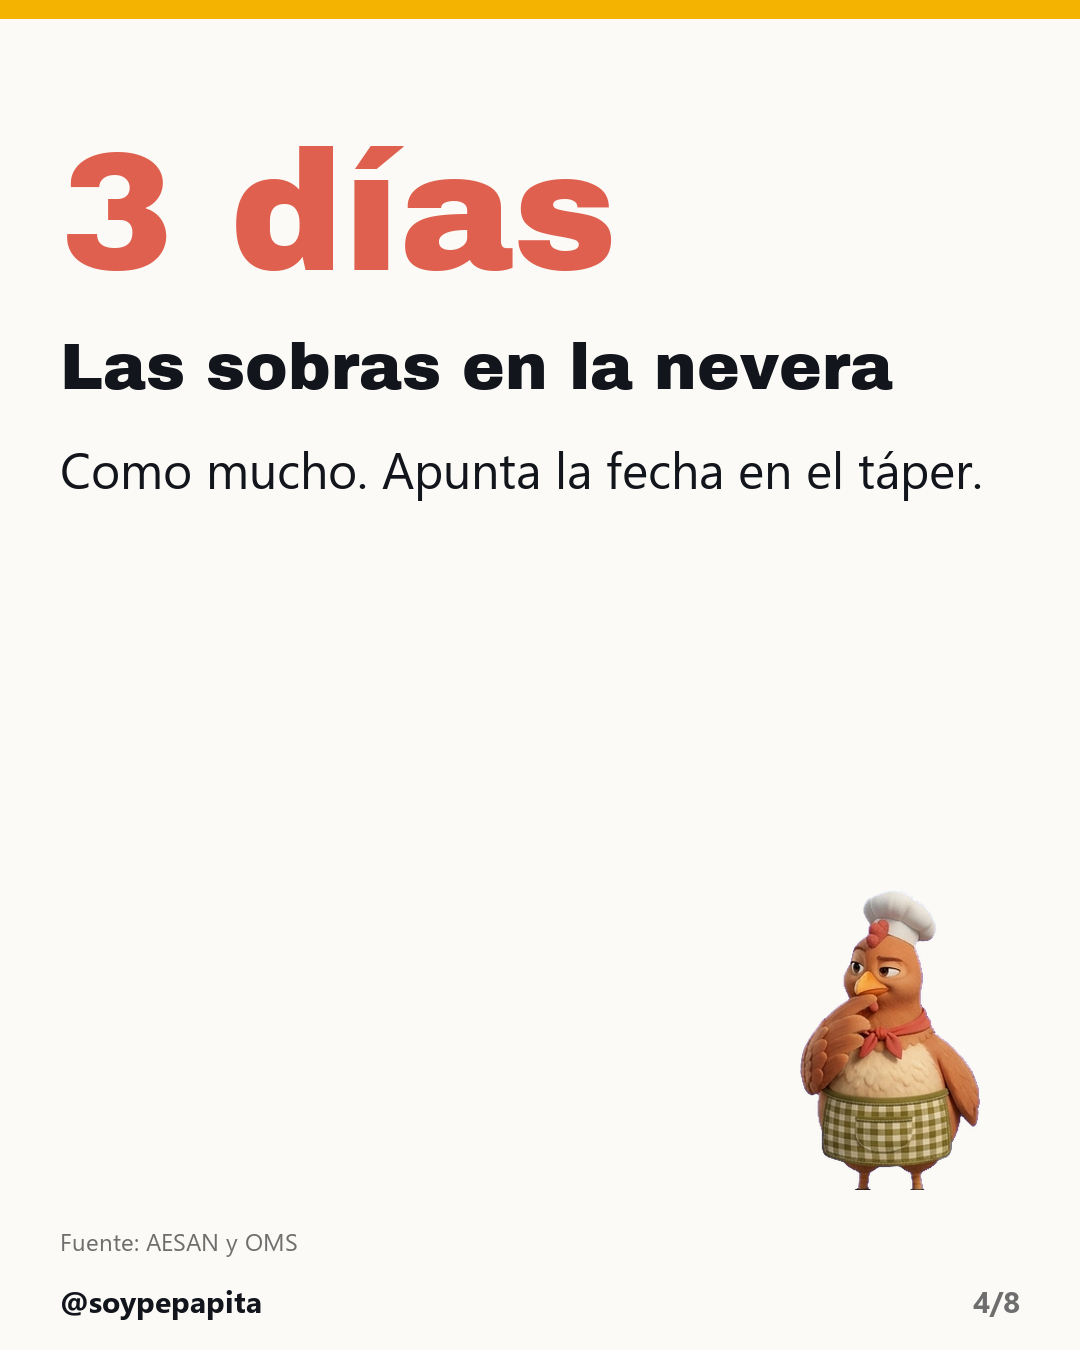
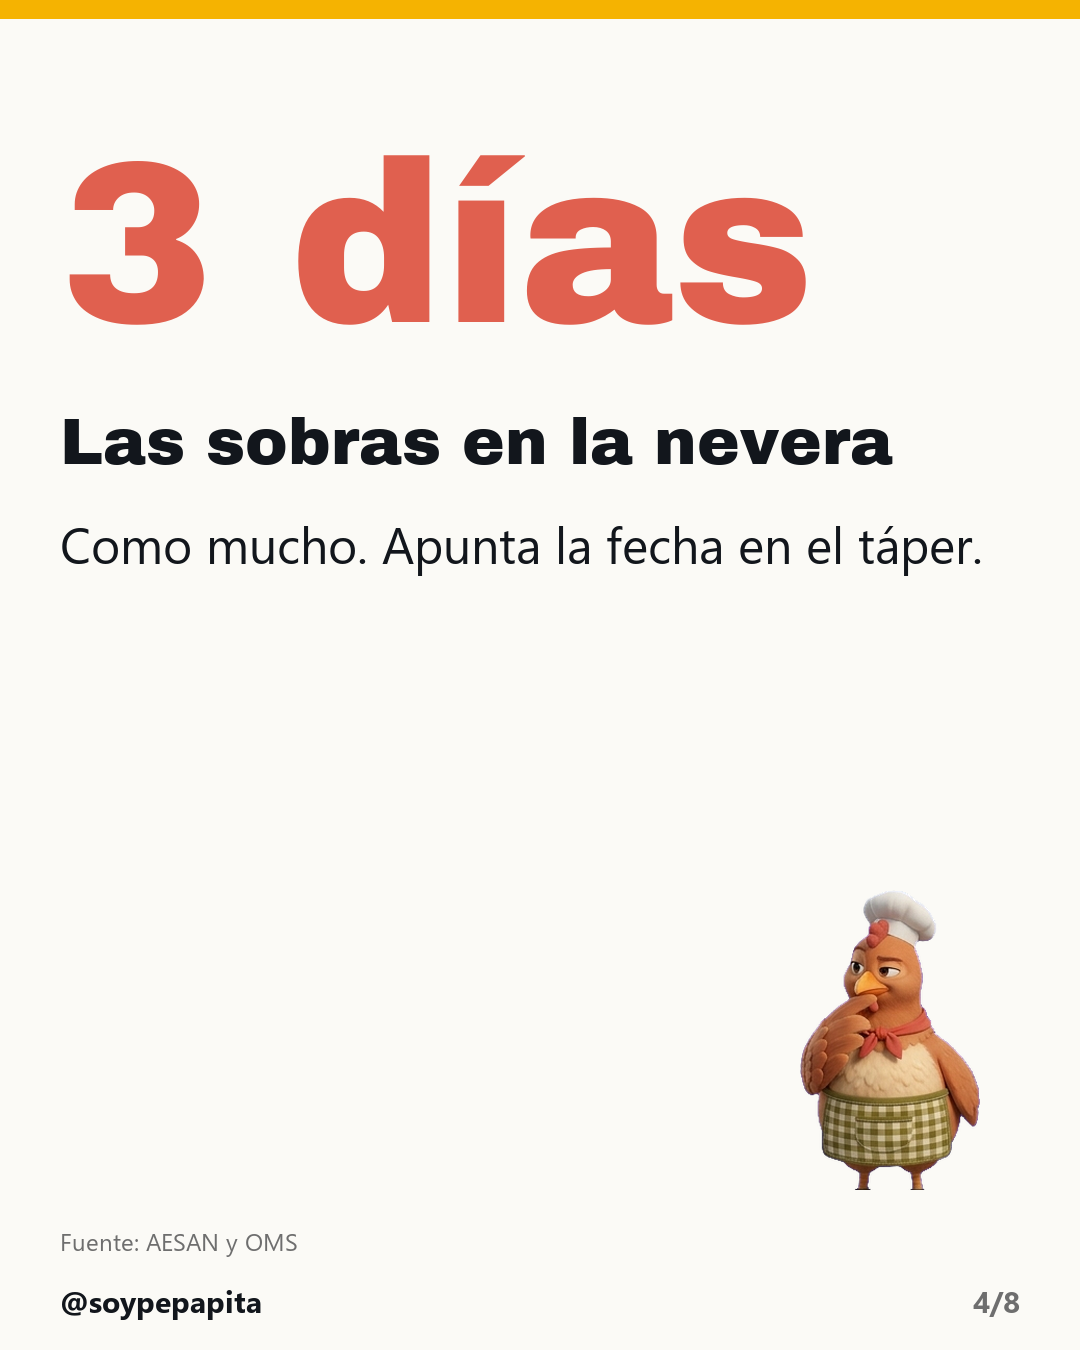
Pepa: 6 carruseles hasta el 21/10 con instrucciones de publicación

Changed region(s): [[0.0611, 0.0933, 0.9167, 0.4356]]

diff --git a/redes/pepa_pita/crear_carruseles.py b/redes/pepa_pita/crear_carruseles.py
@@ -25,7 +25,7 @@ def f(ruta, tam):
 
 def ajustar(d, txt, fuente, ancho):
     """Parte el texto en líneas que quepan en «ancho» píxeles."""
-    txt = re.sub(r"(\d) (°C|h\b|horas|hora|días|minutos?)", lambda m: m.group(1) + "\u00a0" + m.group(2), txt)  # espacio duro: no separa número y unidad
+    txt = re.sub(r"(\d) (°C|h\b|horas|hora|días|minutos?|cm)", lambda m: m.group(1) + "\u00a0" + m.group(2), txt)  # espacio duro: no separa número y unidad
     lineas, linea = [], ""
     for p in txt.split(" "):
         prueba = (linea + " " + p).strip()
@@ -79,7 +79,9 @@ def portada(titulo, sub, pose, n, total):
 
 def ficha_numero(cifra, que, detalle, fuente_txt, n, total, cara="exp_contenta"):
     lienzo, d = base(n, total, fuente_txt)
-    tam = 230 if len(cifra) <= 5 else 170
+    tam = 230
+    while d.textlength(cifra, font=f(TITULAR, tam)) > W - 120:  # la cifra o palabra grande cabe siempre
+        tam -= 10
     d.text((60, 120), cifra, font=f(TITULAR, tam), fill=ROJO)
     y = 120 + int(tam * 1.25)
     y = parrafo(d, que, f(TITULAR, 64), 60, y, W - 120, TINTA, 1.15)
@@ -97,6 +99,18 @@ def ficha_mito(mito, realidad, fuente_txt, n, total, cara="exp_pensativa"):
     d.rounded_rectangle([60, y, 420, y + 70], radius=35, fill=VERDE)
     d.text((95, y + 8), "REALIDAD", font=f(TITULAR, 46), fill=PAPEL)
     parrafo(d, realidad, f(TEXTO_FINO, 50), 60, y + 110, W - 120, TINTA, 1.3)
+    pepa(lienzo, cara, 300, W - 280, H - 460)
+    return lienzo
+
+
+def ficha_veredicto(etiqueta, color, titulo, detalle, fuente_txt, n, total, cara="exp_pensativa"):
+    """Pastilla de color («A LA BASURA», «SE SALVA»…) + titular + explicación."""
+    lienzo, d = base(n, total, fuente_txt)
+    ancho = d.textlength(etiqueta, font=f(TITULAR, 46)) + 70
+    d.rounded_rectangle([60, 110, 60 + ancho, 180], radius=35, fill=color)
+    d.text((95, 118), etiqueta, font=f(TITULAR, 46), fill=PAPEL)
+    y = parrafo(d, titulo, f(TITULAR, 66), 60, 230, W - 120, TINTA, 1.15)
+    parrafo(d, detalle, f(TEXTO_FINO, 50), 60, y + 40, W - 120, TINTA, 1.3)
     pepa(lienzo, cara, 300, W - 280, H - 460)
     return lienzo
 
@@ -172,4 +186,116 @@ guardar("002_mitos_cocina", [
 Pepa es un personaje animado con IA; los datos, no 😉
 
 #seguridadalimentaria #mitos #trucosdecocina #cocina #pepapita
+""")
+
+# ── Carrusel 003: lunes 12/10/2026, 13:00 (refuerza el Reel 012, la nevera) ──
+T = 8
+guardar("003_nevera_balda_a_balda", [
+    portada("Tu nevera, balda a balda", "Dónde va cada cosa para que dure más y no te sienta mal.", "pose_sartenes", 1, T),
+    ficha_numero("5 °C", "Lo primero: la temperatura", "5 °C o menos; mejor, 4. Un termómetro de nevera cuesta muy poco.", "AESAN y OMS", 2, T),
+    ficha_numero("ARRIBA", "Lo cocinado y lo listo para comer", "Sobras, embutido, yogures, postres: lo que ya no vas a cocinar.", "AESAN, «Pon en orden tu nevera»", 3, T, "exp_contenta"),
+    ficha_numero("ABAJO", "La carne y el pescado crudos", "Siempre por debajo de lo cocinado y bien tapados, para que no goteen encima de nada.", "AESAN, «Pon en orden tu nevera»", 4, T, "exp_preocupada"),
+    ficha_numero("CAJONES", "La fruta y la verdura", "En su sitio, separadas de la carne y el pescado crudos.", "AESAN, «Pon en orden tu nevera»", 5, T, "exp_guino"),
+    ficha_numero("PUERTA", "La zona que más se calienta", "Es donde más cambia la temperatura. Ahí, bebidas y salsas; lo delicado, dentro.", "FDA y USDA (EE. UU.)", 6, T, "exp_sorprendida"),
+    ficha_numero("AIRE", "No la llenes hasta arriba", "El aire frío tiene que circular entre los alimentos. Y todo en recipientes cerrados.", "AESAN y USDA (EE. UU.)", 7, T, "exp_pensativa"),
+    cierre("¿Tu nevera aprueba?", "Guárdalo y mándaselo a tu compañero de piso.", "exp_riendo", 8, T),
+], """
+Tu nevera, balda a balda 🧊 Guárdalo para cuando vuelvas de la compra.
+
+🌡 5 °C o menos (mejor, 4).
+⬆ Arriba: lo cocinado y lo listo para comer.
+⬇ Abajo: carne y pescado crudos, bien tapados.
+🥬 Cajones: fruta y verdura.
+🚪 Puerta: la zona más caliente; bebidas y salsas.
+💨 Sin llenarla hasta arriba: el aire frío tiene que circular.
+
+¿Tu nevera aprueba? Mándaselo a tu compañero de piso 😉
+
+📊 Fuentes: AESAN («Pon en orden tu nevera»), OMS, FDA y USDA (EE. UU.).
+Pepa es un personaje animado con IA; los datos, no 😉
+
+#nevera #orden #seguridadalimentaria #trucosdecocina #pepapita
+""")
+
+# ── Carrusel 004: miércoles 14/10/2026, 13:00 (refuerza el Reel 007, la tabla de cortar) ──
+T = 7
+guardar("004_tabla_de_cortar", [
+    portada("La tabla de cortar: 5 reglas", "Por ahí pasan las bacterias de un alimento a otro.", "pose_ojo", 1, T),
+    ficha_numero("1", "Una para lo crudo y otra para lo que va directo a la boca", "Las bacterias de la carne cruda se quedan en la tabla y pasan a la ensalada, que ya no vas a cocinar.", "AESAN y OMS (5 claves)", 2, T, "exp_preocupada"),
+    ficha_numero("2", "¿Solo tienes una? Primero la verdura", "La carne cruda, siempre al final.", "FSA (Reino Unido) y USDA (EE. UU.)", 3, T, "exp_guino"),
+    ficha_numero("3", "Agua caliente y jabón", "Después de cortar crudo, lávala bien. Pasarle un trapo no basta.", "AESAN y USDA (EE. UU.)", 4, T, "exp_pensativa"),
+    ficha_numero("4", "¿Madera o plástico? Las dos valen", "El plástico se limpia más fácil. Antes de meterla en el lavavajillas, mira las instrucciones.", "USDA (EE. UU.) y FSA (Reino Unido)", 5, T, "exp_contenta"),
+    ficha_numero("5", "Con surcos, a la basura", "Los cortes profundos son muy difíciles de limpiar.", "USDA (EE. UU.)", 6, T, "exp_sorprendida"),
+    cierre("¿Cuántas cumples?", "Mándaselo a quien corta el pollo y el tomate en la misma tabla.", "exp_riendo", 7, T),
+], """
+La tabla de cortar: 5 reglas 🔪 ¿Cuántas cumples?
+
+1⃣ Una para lo crudo y otra para lo que va directo a la boca.
+2⃣ ¿Solo tienes una? Primero la verdura; la carne cruda, al final.
+3⃣ Después, agua caliente y jabón. Un trapo no basta.
+4⃣ Madera o plástico: las dos valen; el plástico se limpia más fácil.
+5⃣ Con surcos, a la basura.
+
+Mándaselo a quien corta el pollo y el tomate en la misma tabla 😅
+
+📊 Fuentes: AESAN, OMS (5 claves), FSA (Reino Unido) y USDA (EE. UU.).
+Pepa es un personaje animado con IA; los datos, no 😉
+
+#tabladecortar #cocina #seguridadalimentaria #trucosdecocina #pepapita
+""")
+
+# ── Carrusel 005: lunes 19/10/2026, 13:00 (refuerza el Reel 009, el moho) ──
+T = 7
+guardar("005_moho_tirar_o_salvar", [
+    portada("Moho: ¿se tira o se salva?", "Lo que ves es solo la punta: tiene raíces por dentro.", "pose_senala", 1, T),
+    ficha_veredicto("A LA BASURA", ROJO, "Pan, mermelada, yogur, queso fresco o rallado y sobras", "Enteros. Quitar la parte con moho no sirve: por dentro ha llegado más lejos de lo que ves.", "AESAN y USDA (EE. UU.)", 2, T, "exp_preocupada"),
+    ficha_veredicto("A LA BASURA", ROJO, "La fruta y la verdura con moho", "La pieza entera, no solo el trozo estropeado.", "AESAN (tríptico de frutas y verduras, 2024)", 3, T, "exp_pensativa"),
+    ficha_veredicto("SE SALVA", VERDE, "El queso curado", "En EE. UU. aconsejan cortar al menos 2,5 cm alrededor y por debajo del moho, sin tocarlo con el cuchillo.", "USDA (EE. UU.)", 4, T, "exp_contenta"),
+    ficha_veredicto("ES DE LA RECETA", VERDE, "El queso azul, el brie o el camembert", "Su moho forma parte de la receta. Pero si les sale otro distinto, a la basura.", "USDA (EE. UU.)", 5, T, "exp_guino"),
+    ficha_veredicto("OJO", AMARILLO, "Cocinarlo no lo arregla", "Algunos mohos fabrican toxinas que no suelen desaparecer al cocinar. Y no lo huelas.", "AESAN (micotoxinas) y USDA (EE. UU.)", 6, T, "exp_sorprendida"),
+    cierre("¿Tú qué hacías?", "Guárdalo para la próxima vez que abras la mermelada.", "exp_guino", 7, T),
+], """
+Moho: ¿se tira o se salva? 🍓🧀
+
+🗑 Pan, mermelada, yogur, queso fresco o rallado y sobras: a la basura, enteros.
+🗑 Fruta y verdura: la pieza entera.
+✅ Queso curado: en EE. UU. aconsejan cortar al menos 2,5 cm alrededor y por debajo, sin tocar el moho con el cuchillo.
+✅ Queso azul, brie o camembert: su moho es parte de la receta (si les sale otro distinto, a la basura).
+⚠ Cocinarlo no lo arregla: algunas toxinas no se van con el calor. Y no lo huelas.
+
+Guárdalo para la próxima vez que abras la mermelada 😉
+
+📊 Fuentes: AESAN (micotoxinas; tríptico de frutas y verduras 2024) y USDA (EE. UU.).
+Pepa es un personaje animado con IA; los datos, no 😉
+
+#moho #nodesperdicies #seguridadalimentaria #trucosdecocina #pepapita
+""")
+
+# ── Carrusel 006: miércoles 21/10/2026, 13:00 (refuerza el Reel 011, lavar la fruta) ──
+T = 8
+guardar("006_lavar_fruta_verdura", [
+    portada("Cómo lavar bien la fruta y la verdura", "Spoiler: el lavavajillas no entra en la receta.", "pose_aplaude", 1, T),
+    ficha_numero("GRIFO", "Bajo el grifo, con agua corriente", "Es lo básico, y lo que más importa.", "AESAN (tríptico de frutas y verduras, 2024)", 2, T, "exp_contenta"),
+    ficha_numero("PELAR", "Aunque la vayas a pelar", "Así, al cortar, no arrastras hacia dentro lo que hay en la piel.", "AESAN (tríptico de frutas y verduras, 2024)", 3, T, "exp_pensativa"),
+    ficha_numero("JABÓN", "Nada de jabón ni lavavajillas", "La fruta y la verdura lo pueden absorber.", "FDA (EE. UU.) y Ministerio de Consumo", 4, T, "exp_preocupada"),
+    ficha_numero("CEPILLO", "Melón, sandía o pepino", "Los de cáscara dura, con un cepillo solo para eso.", "AESAN", 5, T, "exp_guino"),
+    ficha_numero("LEJÍA", "¿Lechuga o fruta con piel?", "Si quieres desinfectarlas: solo lejía que ponga «apta para la desinfección del agua de bebida», la dosis de su etiqueta y aclarar con mucha agua.", "AESAN (2024) y Ministerio de Consumo", 6, T, "exp_sorprendida"),
+    ficha_numero("VINAGRE", "¿Y el vinagre o el bicarbonato?", "Ninguna de las fuentes oficiales que hemos consultado los recomienda para desinfectar.", "AESAN, Ministerio de Consumo y FDA (EE. UU.)", 7, T, "exp_pensativa"),
+    cierre("¿Tú cómo la lavabas?", "Mándaselo a quien le echa un chorrito de lavavajillas.", "exp_riendo", 8, T),
+], """
+Cómo lavar bien la fruta y la verdura 🍎🥬
+
+🚿 Bajo el grifo, con agua corriente.
+🔪 Aunque la vayas a pelar.
+🚫 Sin jabón ni lavavajillas: la fruta lo puede absorber.
+🍈 Melón, sandía o pepino: con un cepillo.
+💧 ¿Quieres desinfectar la lechuga? Solo lejía «apta para la desinfección del agua de bebida», con la dosis de la etiqueta, y aclara con mucha agua.
+❓ ¿Vinagre o bicarbonato? Ninguna fuente oficial de las que hemos consultado los recomienda para desinfectar.
+
+Mándaselo a quien le echa un chorrito de lavavajillas 😅
+
+📊 Fuentes: AESAN (tríptico de frutas y verduras 2024), Ministerio de Consumo y FDA (EE. UU.).
+Pepa es un personaje animado con IA; los datos, no 😉
+
+#fruta #verdura #seguridadalimentaria #trucosdecocina #pepapita
 """)
